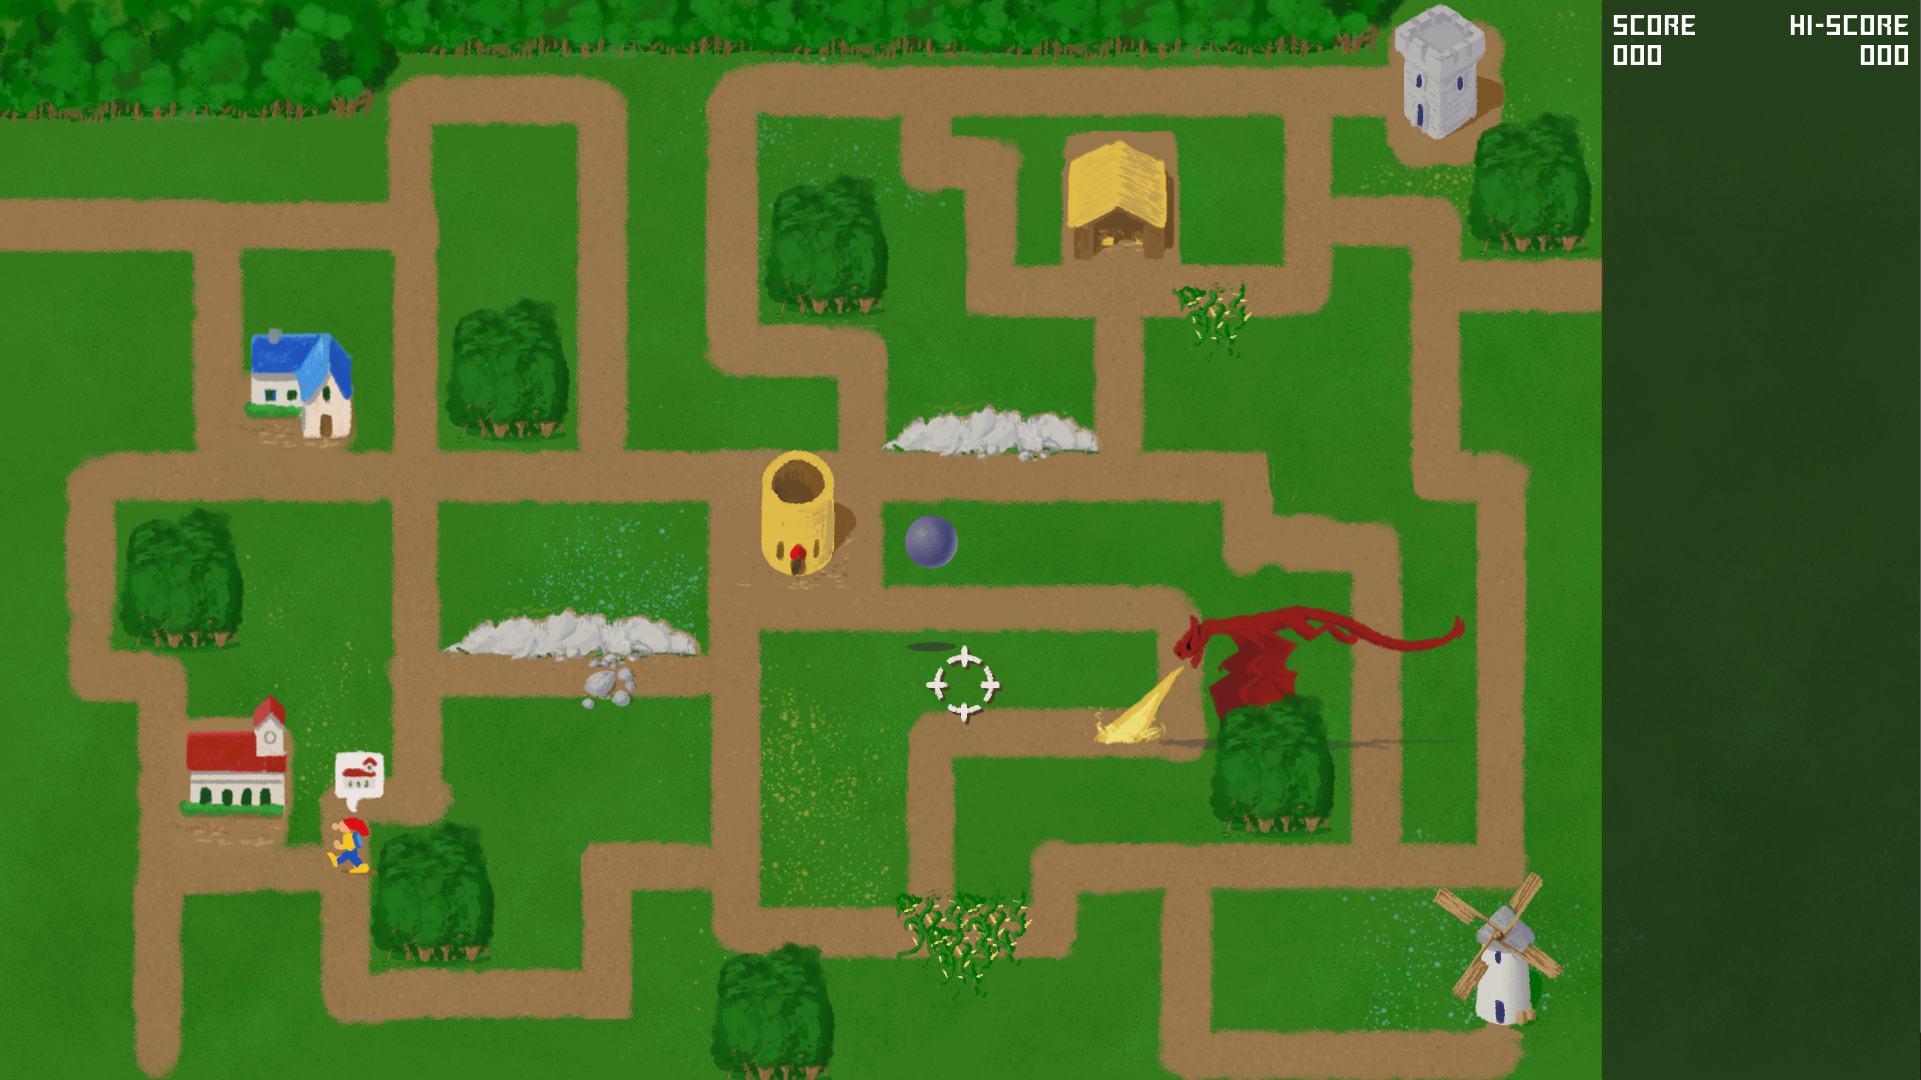
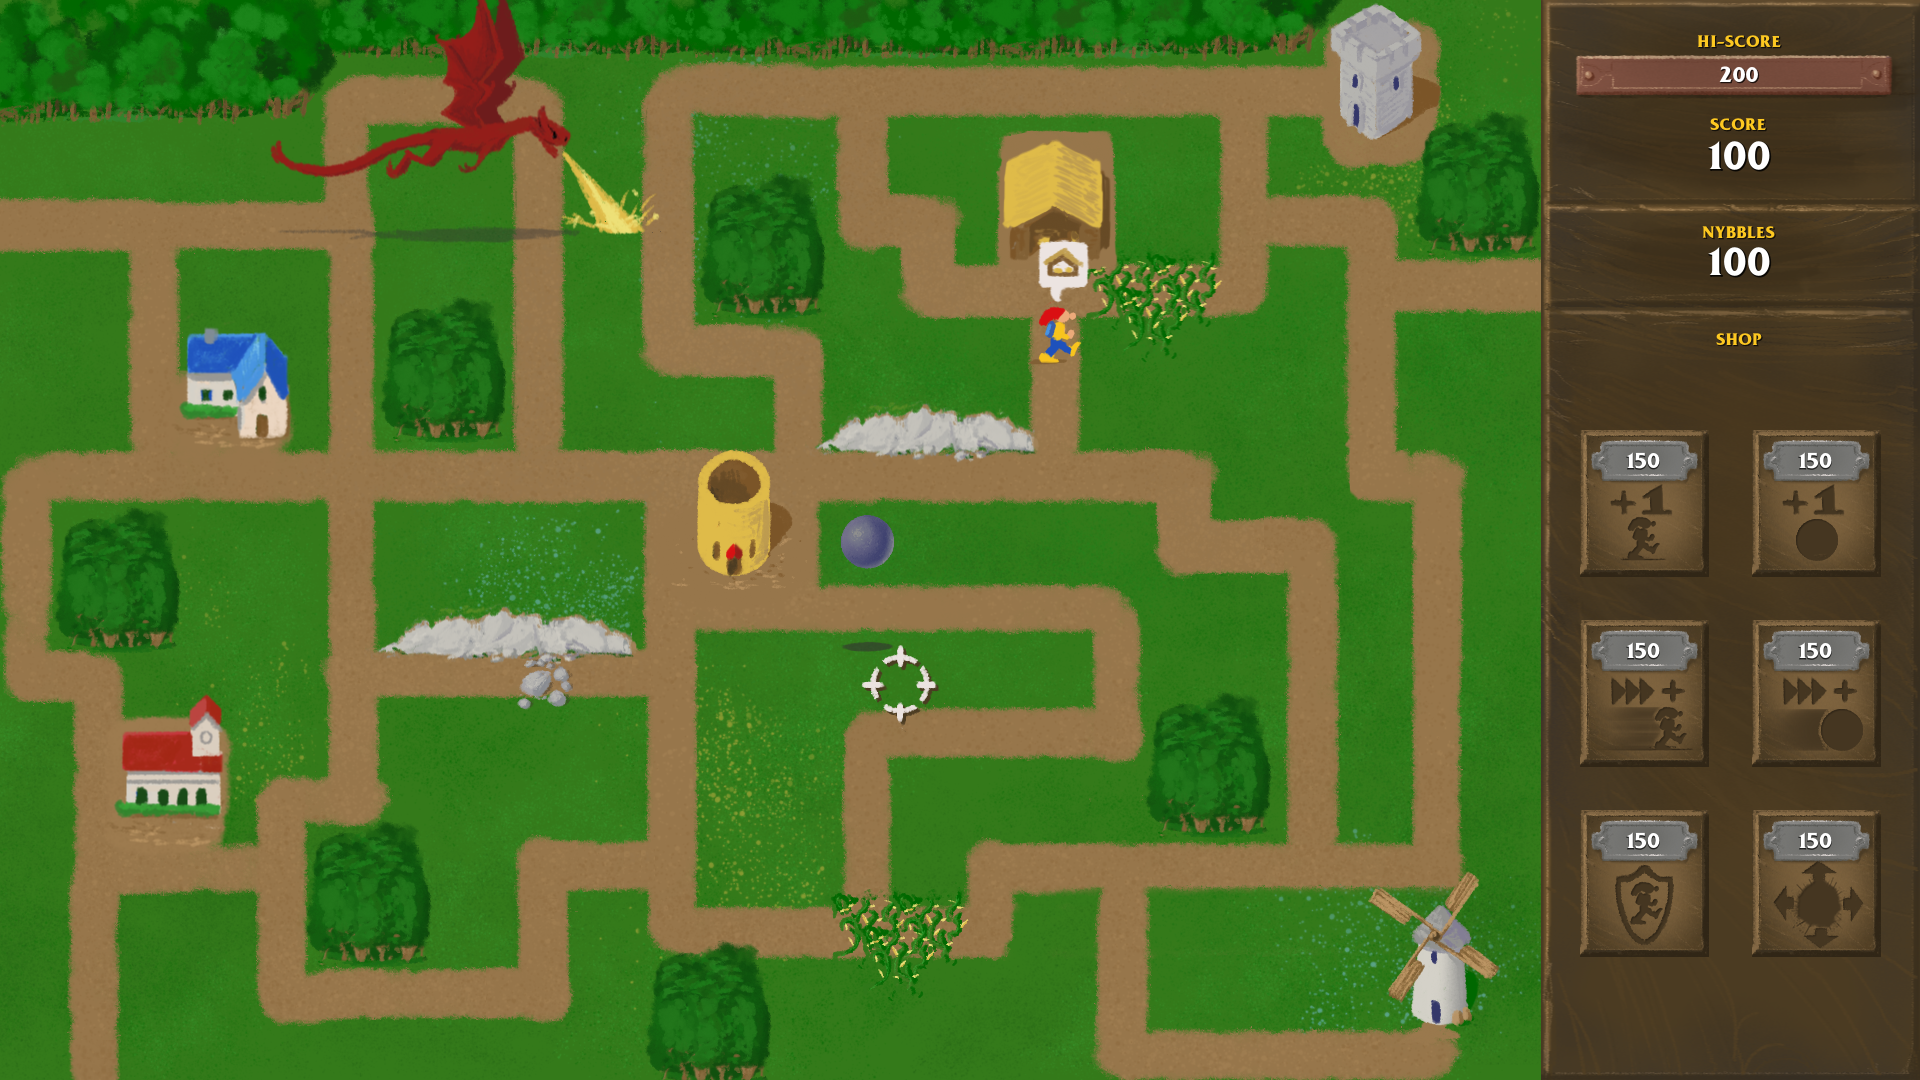
Shop button logic + HireAgent and BoostSpeedAgent

diff --git a/Ludum Dare 53/Scripts/Agent.cs b/Ludum Dare 53/Scripts/Agent.cs
@@ -3,9 +3,9 @@ using PurpleCable;
 
 public partial class Agent : Node2D
 {
-    public const float BaseSpeed = 1f;
+    private const float BaseSpeed = 1f;
 
-    public float CurrentSpeed = BaseSpeed;
+    private static float _currentSpeed = BaseSpeed;
 
     public Warehouse Warehouse { get; private set; }
 
@@ -76,7 +76,7 @@ public partial class Agent : Node2D
                 if (dir.X != 0)
                     _graphic.FlipH = dir.X < 0;
 
-                MoveAnimation = new MoveAnimation(this) { EndGlobalPosition = nextPosition.Value, IsLine = true, Duration = 1 / CurrentSpeed };
+                MoveAnimation = new MoveAnimation(this) { EndGlobalPosition = nextPosition.Value, IsLine = true, Duration = 1 / _currentSpeed };
                 MoveAnimation.Start();
             }
         }
@@ -108,5 +108,15 @@ public partial class Agent : Node2D
 
         GameManager.HQ.OnAgentDied(this);
         QueueFree();
+    }
+
+    public static void ResetStats()
+    {
+        _currentSpeed = BaseSpeed;
+    }
+
+    public static void IncreaseSpeed()
+    {
+        _currentSpeed += BaseSpeed;
     }
 }

diff --git a/Ludum Dare 53/Scripts/HQ.cs b/Ludum Dare 53/Scripts/HQ.cs
@@ -10,8 +10,6 @@ public partial class HQ : Area2D, IDestination
 
     private AgentFactory AgentFactory { get; set; }
 
-    public int MaxAgents { get; private set; } = 10;
-
     public Texture2D BubbleImage { get; private set; }
 
     public HQ()
@@ -50,19 +48,14 @@ public partial class HQ : Area2D, IDestination
             _agents.FirstOrDefault(agent => agent.DeliveryState == DeliveryState.StandBy)?.SendOut(optimalWarehouse, destination);
     }
 
-    public void IncreaseHiringCapacity()
-    {
-        MaxAgents += 5;
-    }
-
-    public bool CanHireAgent()
-    {
-        return _agents.Count < MaxAgents;
-    }
-
     public void HireAgent()
     {
         _agents.Add(AgentFactory.GetAgent());
+    }
+
+    public void BoostAgentSpeed()
+    {
+        Agent.IncreaseSpeed();
     }
 
     public void OnAreaEntered(Area2D area)

diff --git a/Ludum Dare 53/Scripts/ShopButton.cs b/Ludum Dare 53/Scripts/ShopButton.cs
@@ -1,0 +1,33 @@
+using Godot;
+
+public partial class ShopButton : TextureButton
+{
+    [Export] int Price = 150;
+
+    public override void _Ready()
+    {
+        GetNode<Label>("PriceText").Text = Price.ToString();
+
+        GameManager.CurrencyChanged += GameManager_CurrencyChanged;
+    }
+
+    public override void _ExitTree()
+    {
+        GameManager.CurrencyChanged -= GameManager_CurrencyChanged;
+    }
+
+    private void GameManager_CurrencyChanged()
+    {
+        SetActive();
+    }
+
+    private void SetActive()
+    {
+        Disabled = Price > GameManager.Currency;
+    }
+
+    public void OnPressed()
+    {
+        GameManager.ChangeCurrency(-Price);
+    }
+}

diff --git a/Ludum Dare 53/Scripts/GameManager.cs b/Ludum Dare 53/Scripts/GameManager.cs
@@ -63,6 +63,7 @@ public partial class GameManager : Node2D
         _RightDragonFactory = GetNode<DragonFactory>("RightDragonFactory");
 
         ScoreManager.ResetScore();
+        Agent.ResetStats();
 
         CreateTileGrid();
 
